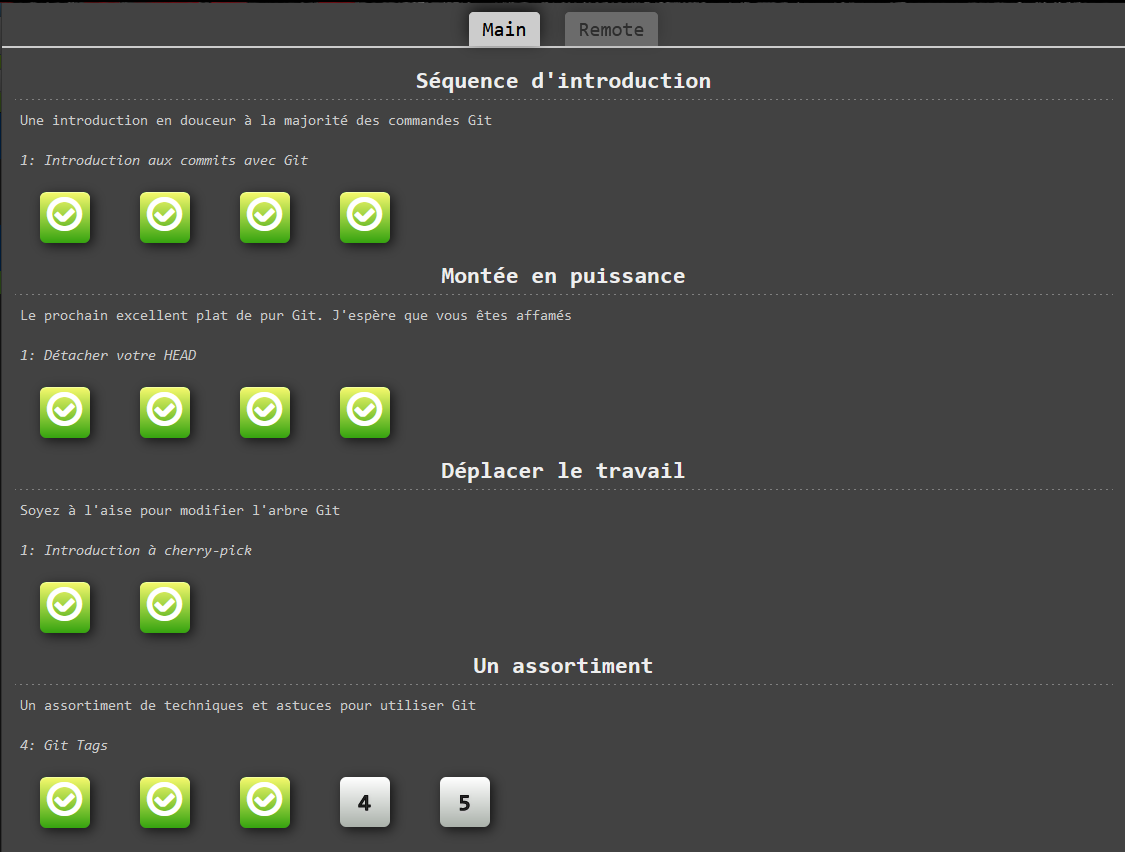
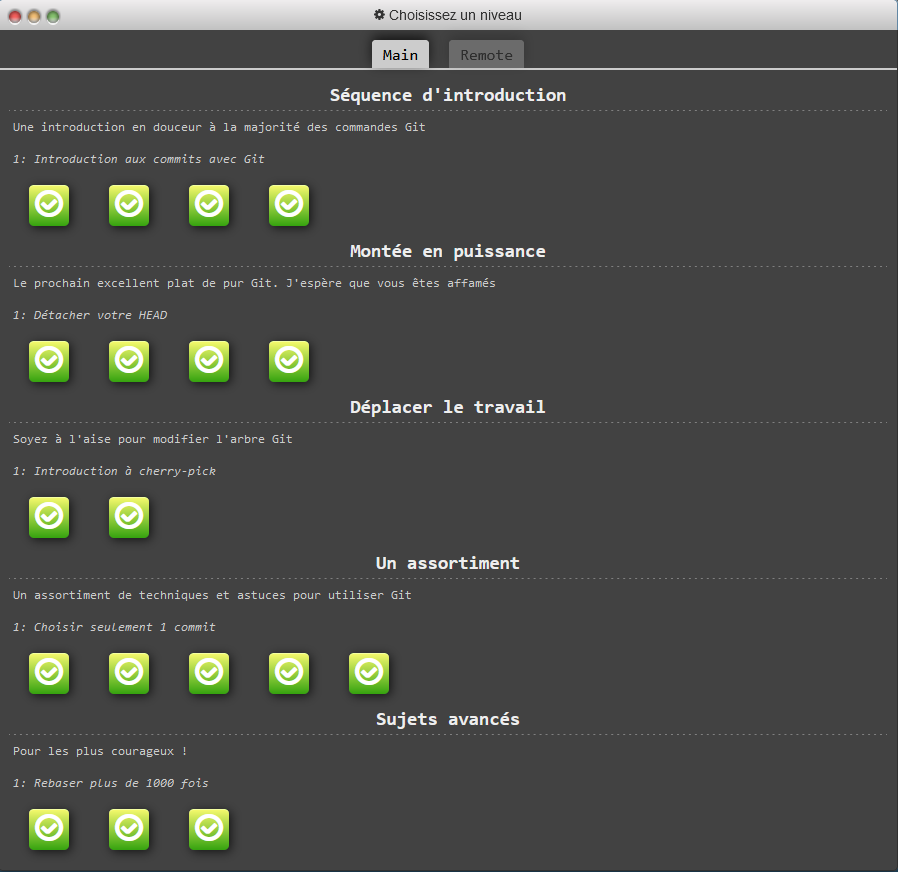
complete

Changed region(s): [[0.0, 0.0, 1.0, 0.9765], [0.3742, 0.5493, 0.6236, 0.5798], [0.9978, 0.9765, 1.0, 1.0]]

diff --git a/README.md b/README.md
@@ -48,6 +48,14 @@
 - git commit --amend
 - git cherry-pick C3
 
+#### **TAG**
+- git tag v0 c1
+- git tag v1 c2
+- git checkout v1
+
+#### **DESCRIBE**
+- git commit
+
 <br></br>
 
 --------------------------
@@ -56,5 +64,6 @@
 
 ## Exos effectués:
 ![Exos effectués](./screen.png)
+![Exos effectués](./screen2.png)
 
 https://learngitbranching.js.org/?locale=fr_FR
